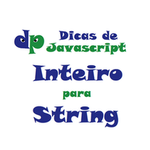
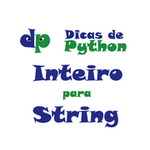
Add post from dicasdepython.com.br

Changed region(s): [[0.08, 0.1867, 0.8533, 0.3733]]

diff --git a/content/posts/dicas-de-python/2018-07-10-pandas-como-criar-um-dataframe-vazio.md b/content/posts/dicas-de-python/2018-07-10-pandas-como-criar-um-dataframe-vazio.md
@@ -1,0 +1,56 @@
+---
+title: Pandas: Como criar um DataFrame vazio
+date: 2018-07-10
+author: Gustavo Furtado de Oliveira Alves
+category: : Dicas de Python :
+tags: Pandas, DataFrame
+slug: pandas-como-criar-um-dataframe-vazio
+---
+
+Para criar um dataframe com o pandas, primeiro nós temos que importar o pandas.
+
+```python
+import pandas as pd
+```
+
+Agora, podemos criar o nosso dataframe.
+
+```python
+df = pd.DataFrame()
+df
+```
+
+Saída:
+
+```
+Empty DataFrame
+Columns: []
+Index: []
+```
+
+Além disso, nós podemos já definir as colunas do nosso dataframe na criação.
+
+```python
+COLUNAS = [
+    'Coluna-1',
+    'Coluna-2',
+    'Coluna-3',
+    'Coluna-4'
+]
+
+df = pd.DataFrame(columns=COLUNAS)
+df
+```
+
+Saída:
+
+```
+Empty DataFrame
+Columns: [Coluna-1, Coluna-2, Coluna-3, Coluna-4]
+Index: []
+```
+
+
+Referências:
+
+1. [Documentação: DataFrame](https://pandas.pydata.org/pandas-docs/stable/generated/pandas.DataFrame.html){:target=\_blank}
